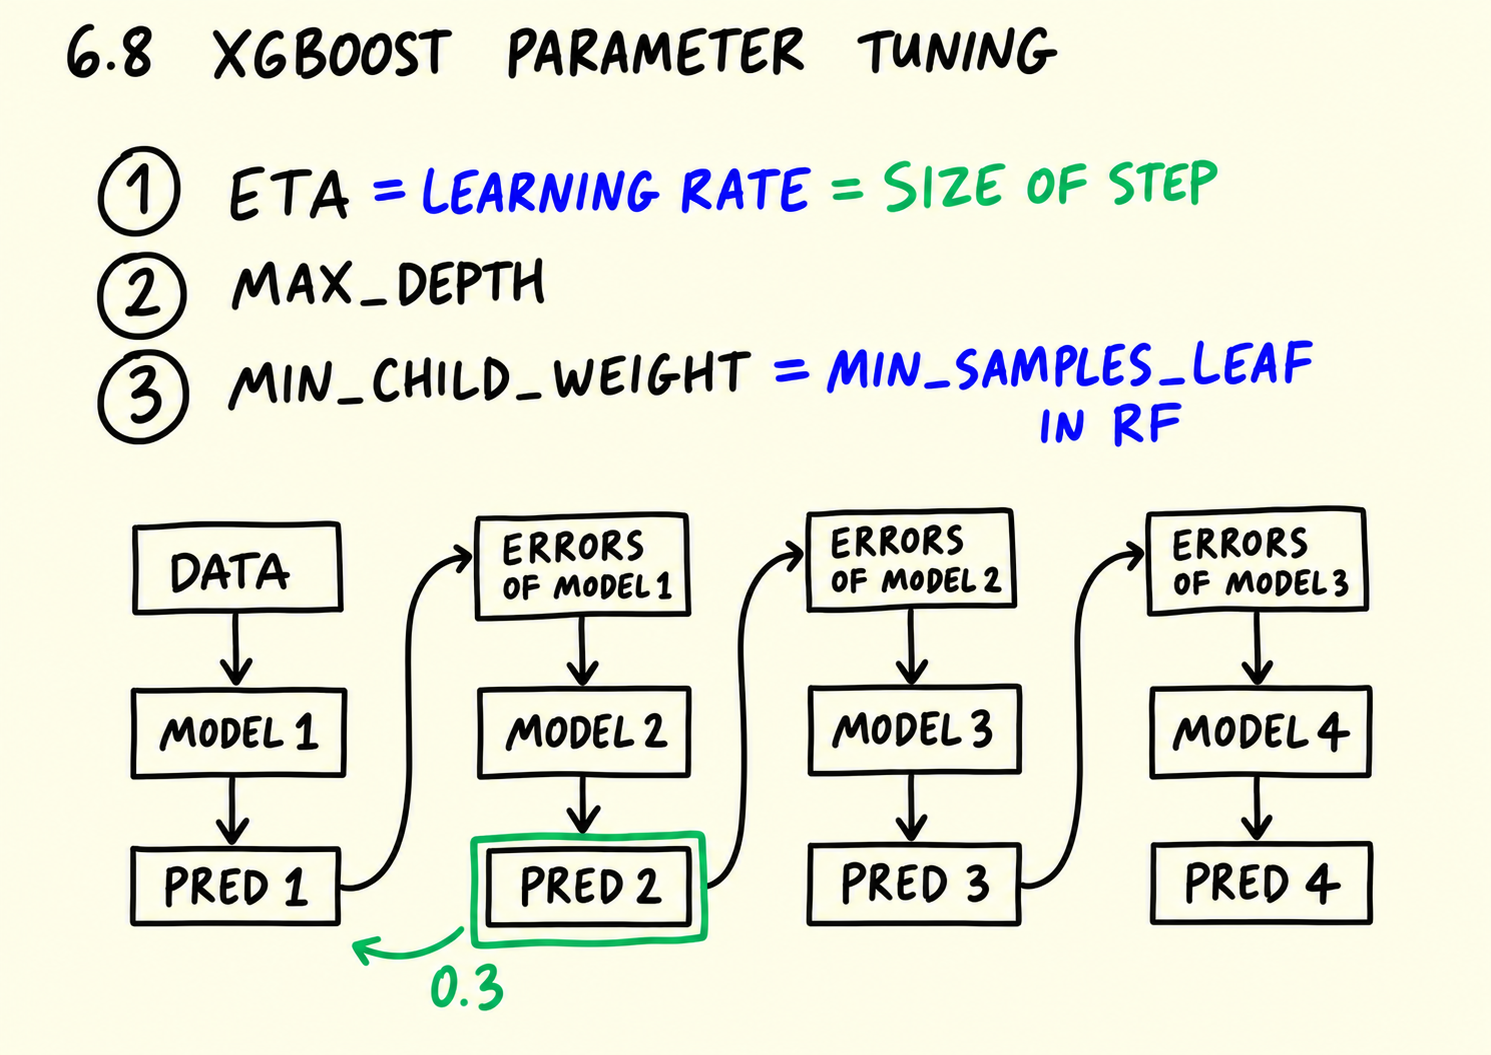
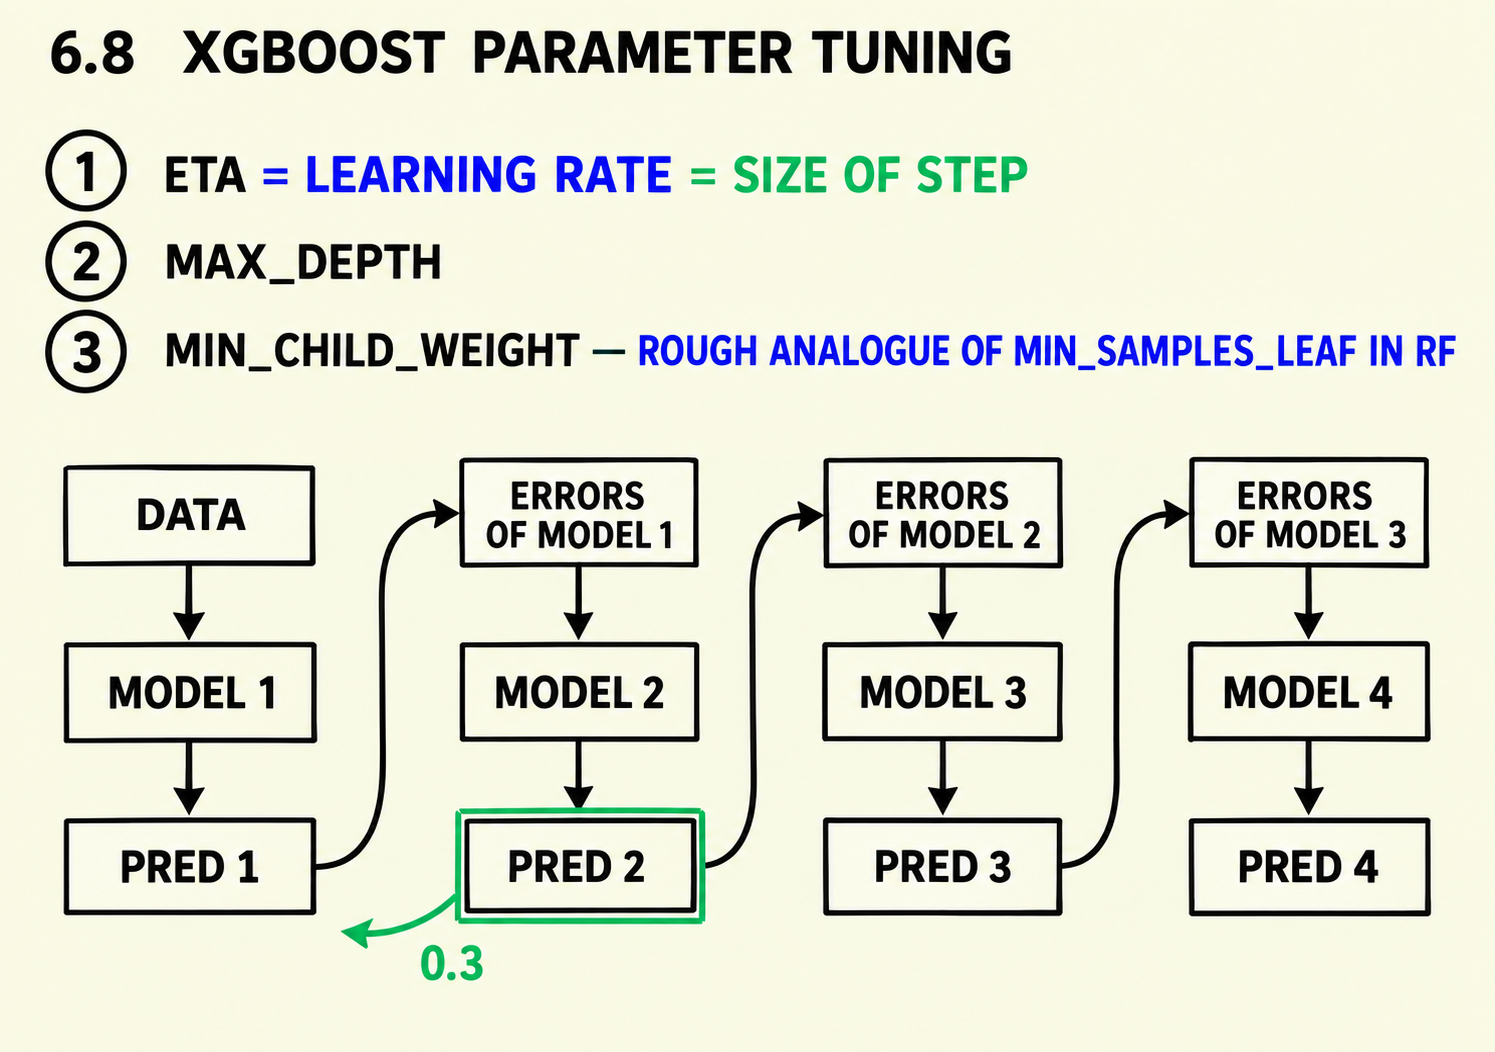
Repair XGBoost analogue wording

Changed region(s): [[0.0309, 0.1217, 0.9873, 0.9734], [0.0309, 0.0, 0.7096, 0.0913]]

diff --git a/cohorts/2026/06-trees/images/2026-09-09-provenance-ledger.md b/cohorts/2026/06-trees/images/2026-09-09-provenance-ledger.md
@@ -57,3 +57,29 @@ The imagegen outputs remain subject to the independent visual verdict already
 recorded in the strict audit: crisp and semantically correct. This ledger
 supplies the previously missing durable source/crop/output chain; it does not
 make a new claim that the crops themselves are imagegen outputs.
+
+## XGBoost semantic repair
+
+The strict audit found one semantic defect in the existing XGBoost parameter
+illustration: it used equality wording for `min_child_weight` and
+`min_samples_leaf`. The replacement below was generated with the built-in
+imagegen tool from the original JPG and the bounded crop only. The old PNG was
+not used as an input. The replacement says `MIN_CHILD_WEIGHT — ROUGH ANALOGUE
+OF MIN_SAMPLES_LEAF IN RF`, preserves the four-stage error-feedback flow, and
+retains the green `0.3` annotation.
+
+The crop is reproducible with
+[`2026-09-09-xgb-repair-crop.sh`](2026-09-09-xgb-repair-crop.sh), whose
[1 lines of base64/hex data omitted]
+The previous PNG hash is included to make the semantic replacement explicit.
+
+| Asset | Source JPG | Crop JPG | Crop `(x, y, width, height)` | Source SHA-256 | Crop SHA-256 | Previous PNG SHA-256 | Replacement PNG SHA-256 |
+|---|---|---|---|---|---|---|---|
[1 lines of base64/hex data omitted]
+
+Imagegen execution: `exec-8f42295c-8408-42af-84ae-7ece5c751291`. The output
+contains C2PA metadata identifying OpenAI image generation. Native dimensions
+are `1495×1052`; a simulated `608px` render was inspected and kept all
+parameter text, stages, arrows, and the `0.3` annotation readable. The
+replacement changes the published PNG intentionally; the eleven provenance-
+only PNGs above remain byte-for-byte unchanged.

diff --git a/cohorts/2026/06-trees/08-xgb-tuning.md b/cohorts/2026/06-trees/08-xgb-tuning.md
@@ -21,7 +21,7 @@ The three parameters we tune are:
 3. `min_child_weight` - the minimal size of a leaf, the analogue of
    `min_samples_leaf` in random forest.
 
-![The three XGBoost parameters to tune: eta is the size of the step, max_depth controls the trees, min_child_weight is the min_samples_leaf of random forest](images/08-xgb-tuning-01-parameters-imagegen.png)
+![The three XGBoost parameters to tune: eta is the size of the step, max_depth controls the trees, and min_child_weight is a rough analogue of min_samples_leaf in random forest](images/08-xgb-tuning-01-parameters-imagegen.png)
 
 XGBoost has many more parameters - we tune only these three, in this order:
 first `eta`, then `max_depth`, then `min_child_weight`. For each parameter we
